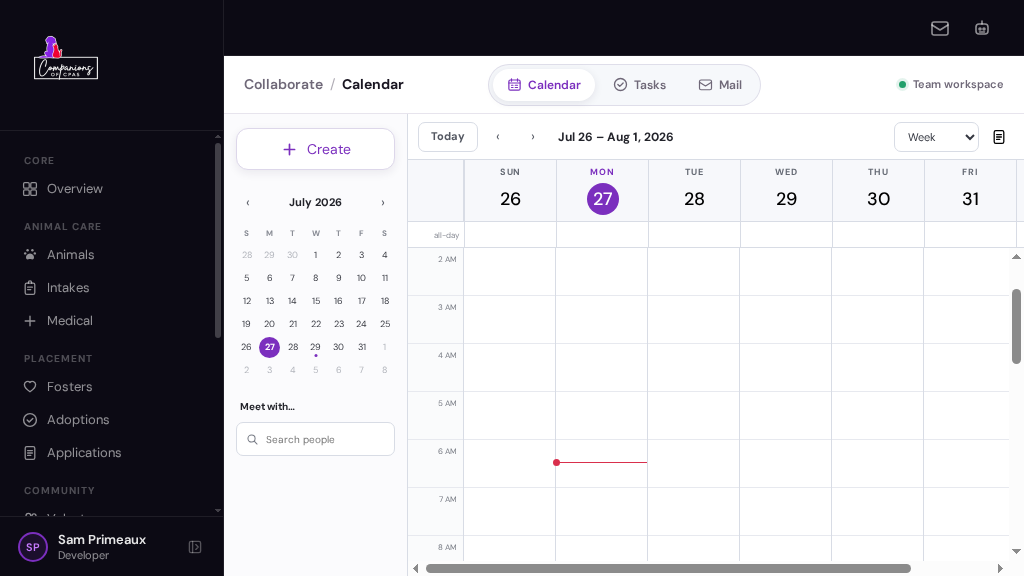
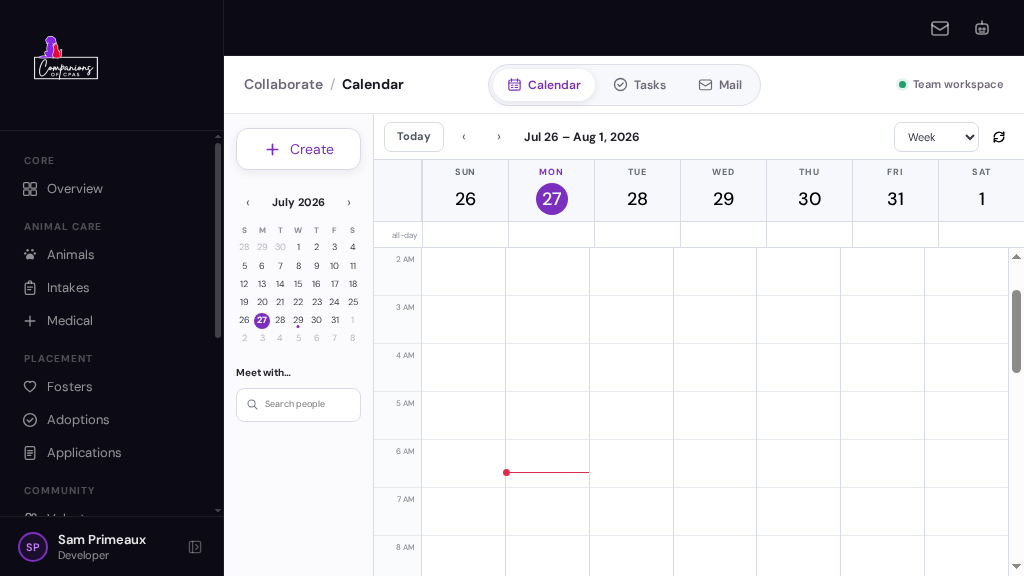
fix: enforce Calendar parity at narrow widths

diff --git a/public/dashboard/css/collaborate-calendar.css b/public/dashboard/css/collaborate-calendar.css
@@ -8,7 +8,7 @@
   --cal-surface: #fff;
   --cal-muted: #696d77;
   display: grid;
-  grid-template-columns: 184px minmax(0, 1fr);
+  grid-template-columns: 150px minmax(0, 1fr);
   height: 100%;
   min-height: 0;
   overflow: hidden;
@@ -25,6 +25,7 @@
 .cpas-cal-left {
   min-height: 0;
   overflow-y: auto;
+  overflow-x: hidden;
   padding: 14px 12px;
   background: #fbfbfd;
   border-right: 1px solid var(--cal-line);
@@ -83,6 +84,24 @@
 }
 .cpas-cal-mini-grid button.is-active.has-event::after { background: #fff; }
 
+.cpas-cal-meet { min-width: 0; display: grid; gap: 8px; margin-top: 18px; }
+.cpas-cal-meet > strong { font-size: 10px; }
+.cpas-cal-meet > label {
+  min-width: 0;
+  height: 34px;
+  display: flex;
+  align-items: center;
+  gap: 6px;
+  padding: 0 9px;
+  border: 1px solid var(--cal-line);
+  border-radius: 8px;
+  background: #fff;
+  color: #777b84;
+}
+.cpas-cal-meet input {
+  width: 100%; min-width: 0; border: 0; outline: 0; background: transparent; color: #30323a; font-size: 9px;
+}
+
 .cpas-cal-mobile-create { display: none; }
 
 .cpas-cal-main {
@@ -115,7 +134,7 @@
 .cpas-cal-grid-wrap { min-height: 0; flex: 1; display: flex; flex-direction: column; overflow: hidden; }
 .cpas-cal-day-heads,
 .cpas-cal-all-day {
-  display: grid; grid-template-columns: 56px repeat(var(--calendar-days), minmax(92px, 1fr)); flex-shrink: 0;
+  display: grid; grid-template-columns: 48px repeat(var(--calendar-days), minmax(0, 1fr)); flex-shrink: 0;
 }
 .cpas-cal-day-heads { min-height: 62px; border-bottom: 1px solid var(--cal-line); background: #f7f8fb; }
 .cpas-cal-gutter-head { border-right: 1px solid var(--cal-line); }
@@ -140,8 +159,8 @@
 
 .cpas-cal-scroll { min-height: 0; flex: 1; overflow: auto; }
 .cpas-cal-time-grid {
-  display: grid; grid-template-columns: 56px repeat(var(--calendar-days), minmax(92px, 1fr));
-  min-width: calc(56px + var(--calendar-days) * 92px); min-height: calc(var(--hour-height) * 24);
+  display: grid; grid-template-columns: 48px repeat(var(--calendar-days), minmax(0, 1fr));
+  min-width: 0; min-height: calc(var(--hour-height) * 24);
 }
 .cpas-cal-time-axis { background: #fafbfc; border-right: 1px solid var(--cal-line); }
 .cpas-cal-time-axis span {
@@ -178,8 +197,8 @@
 .cpas-cal-month-weekdays { display: grid; grid-template-columns: repeat(7, 1fr); }
 .cpas-cal-month-weekdays span { padding: 6px; color: #6f727b; font-size: 9px; font-weight: 700; text-align: center; }
 .cpas-cal-month-cells {
-  flex: 1; display: grid; grid-template-columns: repeat(7, minmax(90px, 1fr)); grid-auto-rows: minmax(86px, 1fr);
-  gap: 1px; min-width: 630px; background: var(--cal-line);
+  flex: 1; display: grid; grid-template-columns: repeat(7, minmax(0, 1fr)); grid-auto-rows: minmax(86px, 1fr);
+  gap: 1px; min-width: 0; background: var(--cal-line);
 }
 .cpas-cal-month-cells > button {
   min-height: 86px; overflow: hidden; display: flex; flex-direction: column; gap: 5px; padding: 6px;

diff --git a/public/dashboard/index.html b/public/dashboard/index.html
@@ -7,8 +7,8 @@
 <link rel="preconnect" href="https://fonts.googleapis.com">
 <link href="https://fonts.googleapis.com/css2?family=DM+Sans:ital,opsz,wght@0,9..40,300;0,9..40,400;0,9..40,500;0,9..40,600;0,9..40,700;1,9..40,400&family=DM+Mono:wght@400;500&display=swap" rel="stylesheet">
 <link rel="stylesheet" href="/dashboard/dash.css?v=4d946b1">
-<link rel="stylesheet" href="/dashboard/css/collaborate.css?v=cal-a-20260727">
-<link rel="stylesheet" href="/dashboard/css/collaborate-calendar.css?v=cal-a-20260727">
+<link rel="stylesheet" href="/dashboard/css/collaborate.css?v=cal-a-20260727-3">
+<link rel="stylesheet" href="/dashboard/css/collaborate-calendar.css?v=cal-a-20260727-3">
 <script src="https://unpkg.com/react@18.3.1/umd/react.development.js" integrity="sha384-hD6/rw4ppMLGNu3tX5cjIb+uRZ7UkRJ6BPkLpg4hAu/6onKUg4lLsHAs9EBPT82L" crossorigin="anonymous"></script>
 <script src="https://unpkg.com/react-dom@18.3.1/umd/react-dom.development.js" integrity="sha384-u6aeetuaXnQ38mYT8rp6sbXaQe3NL9t+IBXmnYxwkUI2Hw4bsp2Wvmx4yRQF1uAm" crossorigin="anonymous"></script>
 <script src="https://unpkg.com/@babel/standalone@7.29.0/babel.min.js" integrity="sha384-m08KidiNqLdpJqLq95G/LEi8Qvjl/xUYll3QILypMoQ65QorJ9Lvtp2RXYGBFj1y" crossorigin="anonymous"></script>
@@ -31,8 +31,8 @@
 <script type="text/babel" src="/dashboard/js/agentsam.jsx?v=4d946b1"></script>
 <script type="text/babel" src="/dashboard/js/view-reports.jsx?v=4d946b1"></script>
 <script type="text/babel" src="/dashboard/js/view-email.jsx?v=4d946b1"></script>
-<script type="text/babel" src="/dashboard/js/view-collaborate-calendar.jsx?v=cal-a-20260727"></script>
-<script type="text/babel" src="/dashboard/js/view-collaborate.jsx?v=cal-a-20260727"></script>
+<script type="text/babel" src="/dashboard/js/view-collaborate-calendar.jsx?v=cal-a-20260727-3"></script>
+<script type="text/babel" src="/dashboard/js/view-collaborate.jsx?v=cal-a-20260727-3"></script>
 <script type="text/babel" src="/dashboard/js/app.jsx?v=4d946b1"></script>
 </body>
 </html>

diff --git a/public/dashboard/js/view-collaborate-calendar.jsx b/public/dashboard/js/view-collaborate-calendar.jsx
@@ -541,7 +541,14 @@
           events,
           onSelect: selectMini,
           shiftMonth: function(amount) { setAnchor(new Date(anchor.getFullYear(), anchor.getMonth() + amount, 1)); },
-        })
+        }),
+        h('div', { className: 'cpas-cal-meet' },
+          h('strong', null, 'Meet with…'),
+          h('label', null,
+            h(Icon, { name: 'search', size: 13 }),
+            h('input', { type: 'search', placeholder: 'Search people', 'aria-label': 'Search people' })
+          )
+        )
       ),
       h('main', { className: 'cpas-cal-main' },
         h('header', { className: 'cpas-cal-toolbar' },
